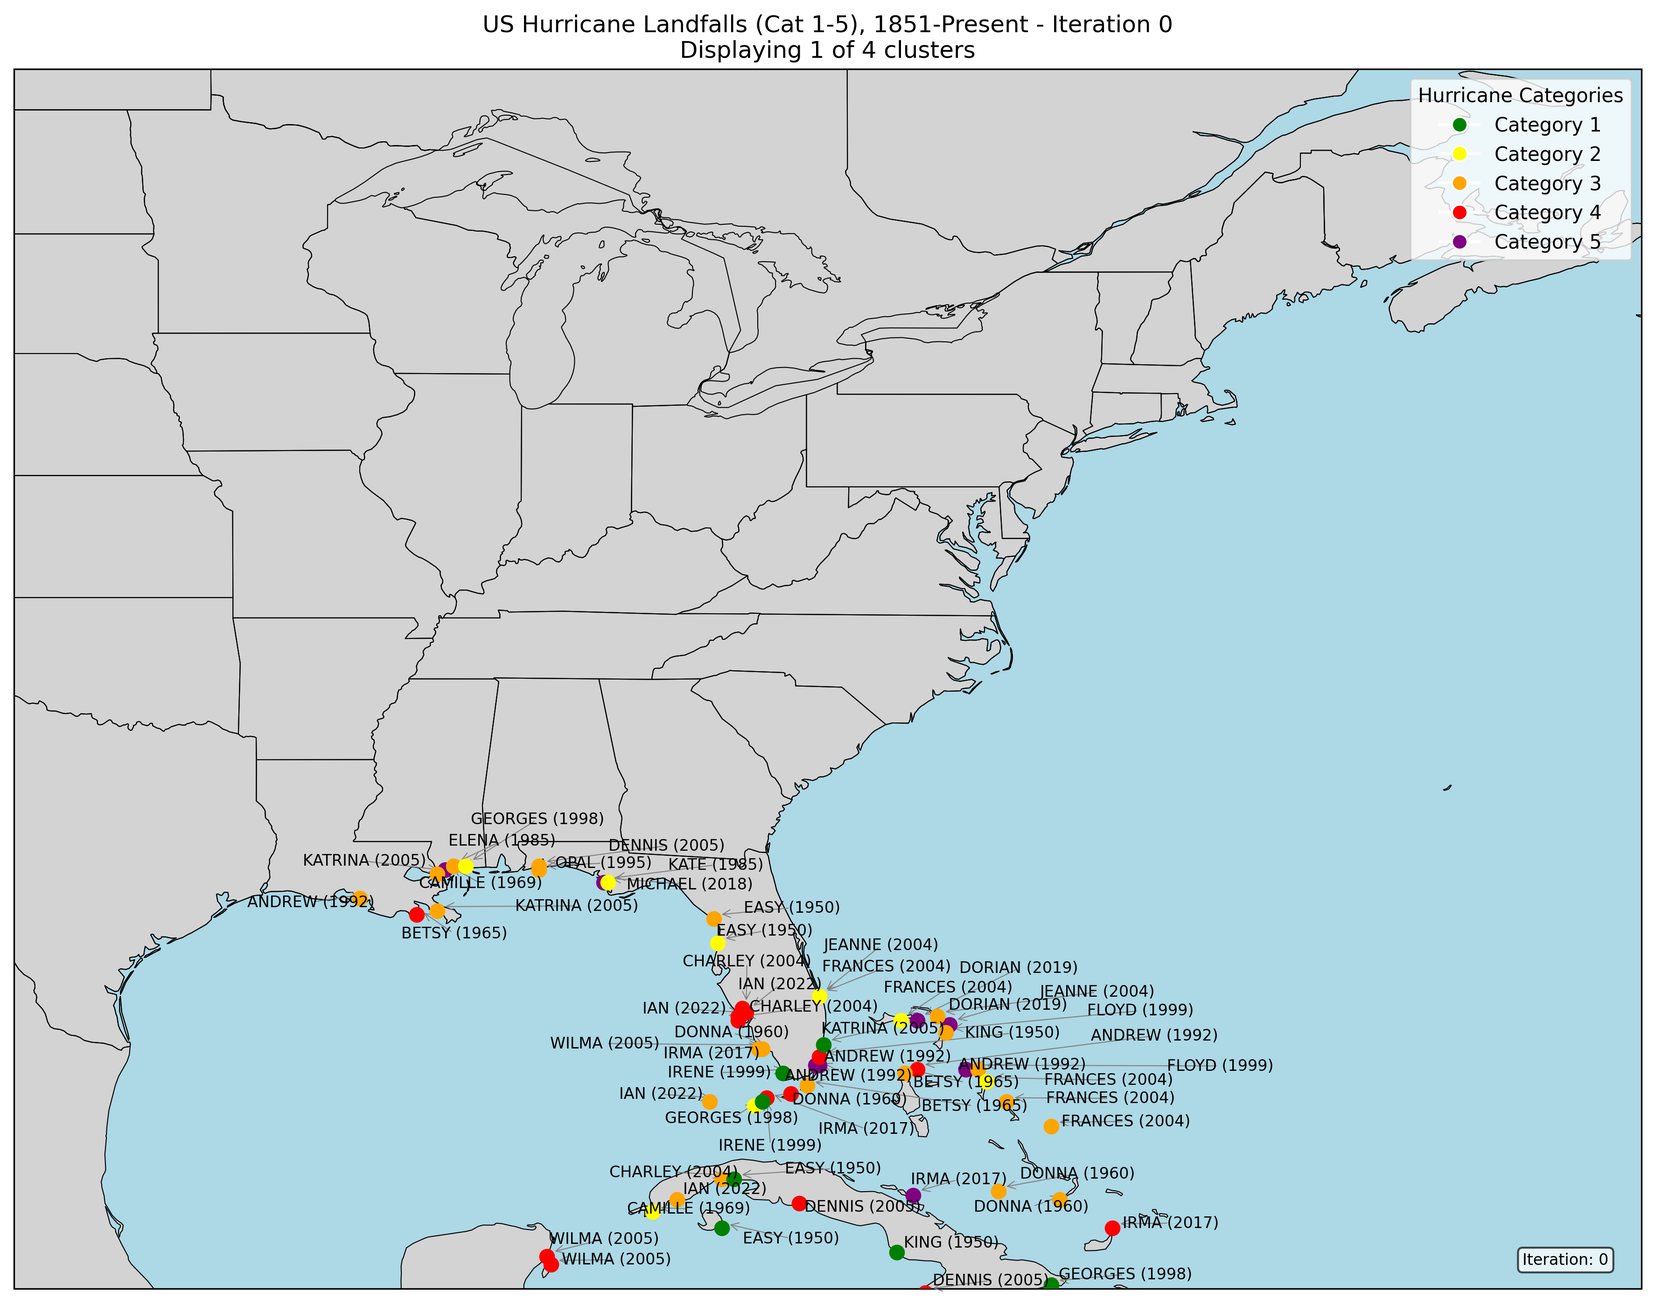
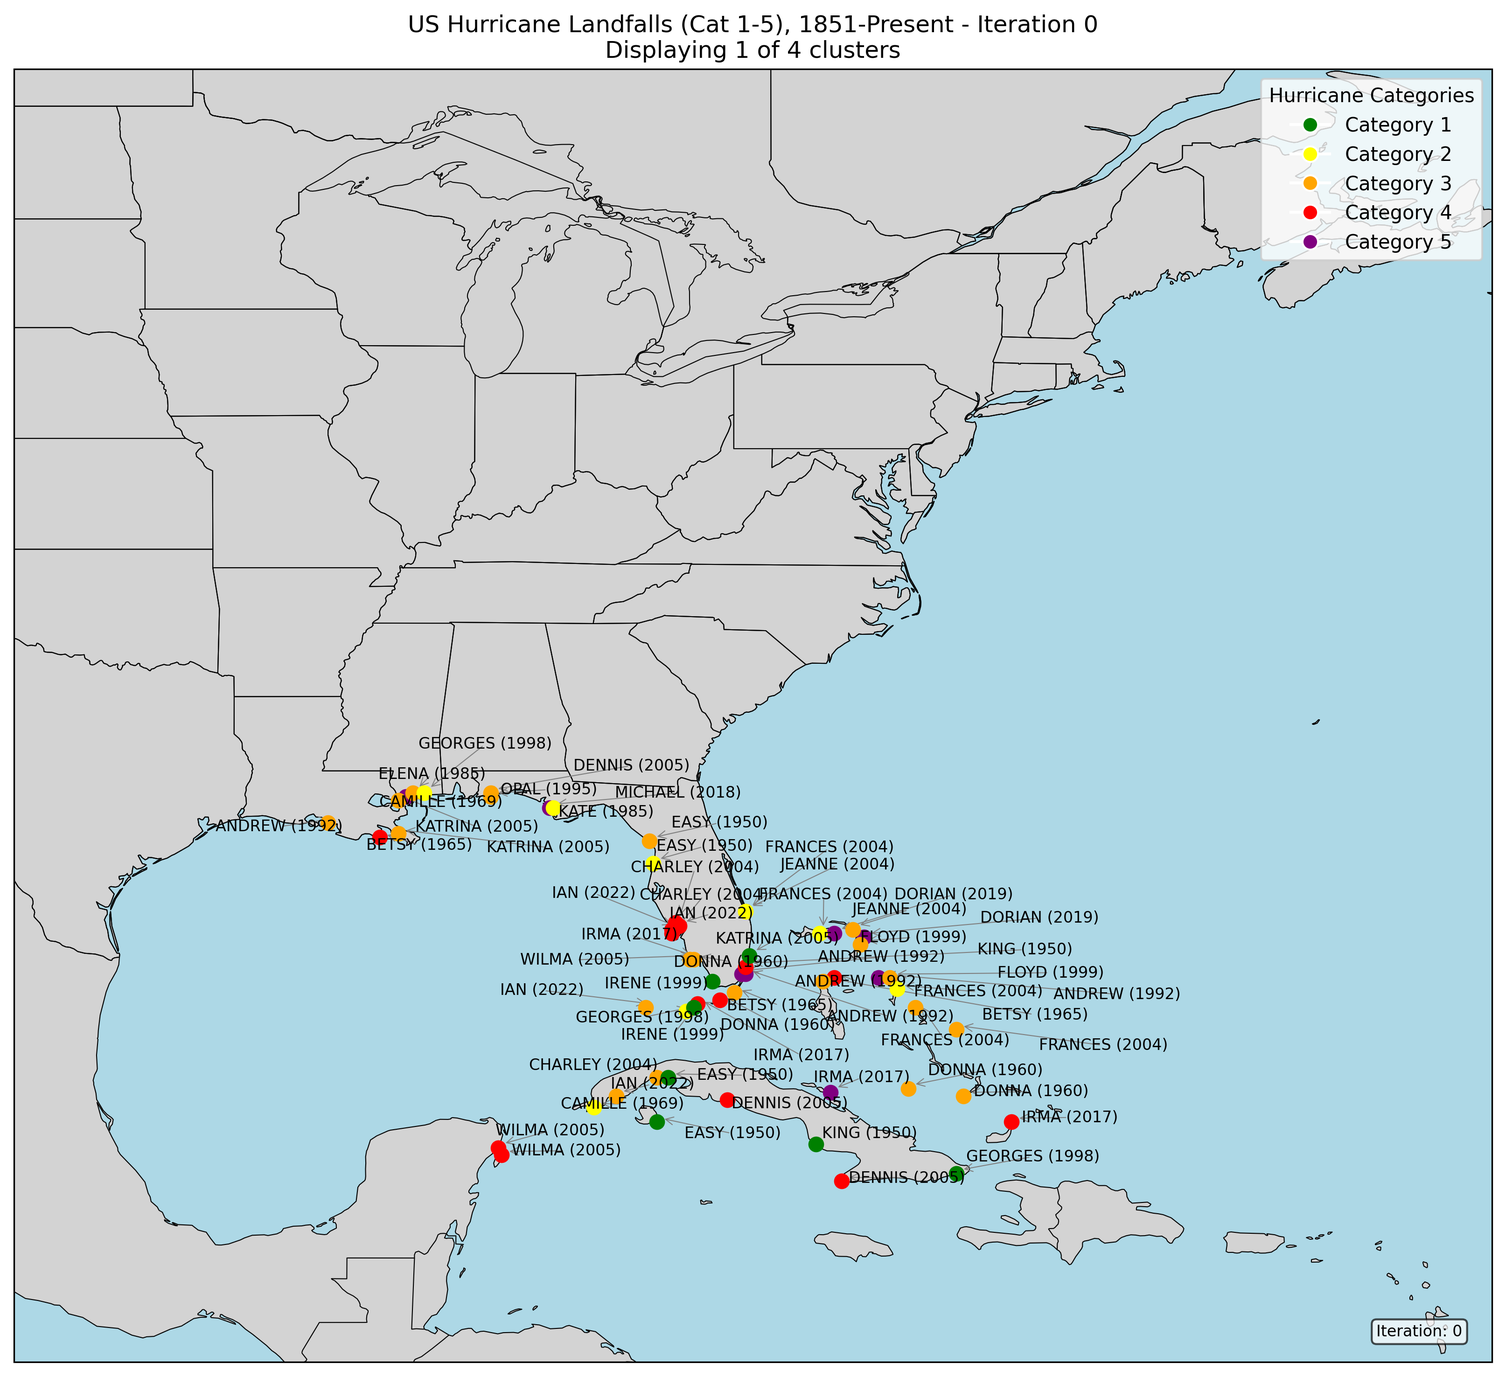
Break down Phase 3 into sub sections to try to make progress

diff --git a/src/plotting_script_phase3_adjustText_focused.py b/src/plotting_script_phase3_adjustText_focused.py
@@ -1,0 +1,229 @@
+#!/usr/bin/env python3
+"""
+Florida Hurricane Landfall Map Generator - adjustText Focused Approach
+
+This script creates a map of Florida hurricane landfalls, adding one cluster at a time
+and using adjustText as the primary layout engine for label placement optimization.
+"""
+
+import pandas as pd
+import matplotlib.pyplot as plt
+import cartopy.crs as ccrs
+import cartopy.feature as cfeature
+import numpy as np
+from pathlib import Path
+from sklearn.cluster import DBSCAN
+from adjustText import adjust_text
+import sys
+
+def create_florida_map(data_path: str, output_path: str, iteration: int) -> None:
+    """
+    Create a map of Florida hurricane landfalls, adding one cluster per iteration.
+    
+    Args:
+        data_path: Path to the CSV file containing landfall data
+        output_path: Path where to save the output PNG file
+        iteration: Current iteration number (determines how many clusters to show)
+    """
+    # Read the full data
+    df = pd.read_csv(data_path)
+    
+    # Sort by category (higher categories first) and proximity to Florida
+    df['miami_distance'] = ((df['longitude'] - (-80.2)) ** 2 + 
+                          (df['latitude'] - 25.8) ** 2) ** 0.5
+    df = df.sort_values(by=['category', 'miami_distance'], ascending=[False, True])
+    
+    # Define significant hurricanes to include (25 major hurricanes)
+    significant_hurricanes = [
+        "ANDREW (1992)",
+        "MICHAEL (2018)",
+        "KATRINA (2005)",
+        "WILMA (2005)",
+        "IRMA (2017)",
+        "IAN (2022)",
+        "CHARLEY (2004)",
+        "DONNA (1960)",
+        "ELOISE (1975)",
+        "OPAL (1995)",
+        "DENNIS (2005)",
+        "JEANNE (2004)",
+        "FRANCES (2004)",
+        "DORIAN (2019)",
+        "EASY (1950)",
+        "BETSY (1965)",
+        "IRENE (1999)",
+        "KING (1950)",
+        "GEORGES (1998)",
+        "ELENA (1985)",
+        "KATE (1985)",
+        "FLOYD (1999)",
+        "DAVID (1979)",
+        "HUGO (1989)",
+        "CAMILLE (1969)"
+    ]
+    
+    # Filter to include these hurricanes
+    plot_df = df[df.apply(lambda row: f"{row['name']} ({row['year']})" in significant_hurricanes, axis=1)]
+    
+    # Extract coordinates for clustering
+    coordinates = plot_df[['longitude', 'latitude']].values
+    
+    # Perform clustering using DBSCAN
+    # epsilon: maximum distance between points to be considered in the same cluster
+    # min_samples: minimum number of points to form a cluster
+    clustering = DBSCAN(eps=3.0, min_samples=1).fit(coordinates)
+    
+    # Add cluster labels to the dataframe
+    plot_df['cluster'] = clustering.labels_
+    
+    # Count number of clusters
+    num_clusters = len(set(clustering.labels_))
+    print(f"Total clusters: {num_clusters}")
+    
+    # Sort clusters by significance (average category) to process more significant clusters first
+    cluster_info = []
+    for cluster_id in range(num_clusters):
+        cluster_df = plot_df[plot_df['cluster'] == cluster_id]
+        avg_category = cluster_df['category'].mean()
+        min_distance = cluster_df['miami_distance'].min()
+        cluster_info.append((cluster_id, avg_category, min_distance, len(cluster_df)))
+    
+    # Sort by average category (descending), then by distance to Miami (ascending)
+    cluster_info.sort(key=lambda x: (-x[1], x[2]))
+    
+    # Create figure and axes
+    plt.figure(figsize=(15, 12))
+    ax = plt.axes(projection=ccrs.PlateCarree())
+    
+    # Set map extent to match baseline (showing full East Coast context)
+    # Modify to extend further south to ensure Florida and Gulf are fully visible
+    ax.set_extent([-100, -60, 15, 50], crs=ccrs.PlateCarree())
+    
+    # Add map features
+    ax.add_feature(cfeature.COASTLINE, linewidth=0.5)
+    ax.add_feature(cfeature.STATES, linewidth=0.5)
+    ax.add_feature(cfeature.BORDERS, linewidth=0.5)
+    ax.add_feature(cfeature.LAND, facecolor='lightgray')
+    ax.add_feature(cfeature.OCEAN, facecolor='lightblue')
+    
+    # Define category colors
+    category_colors = {
+        1: 'green',
+        2: 'yellow',
+        3: 'orange',
+        4: 'red',
+        5: 'purple'
+    }
+    
+    # Determine how many clusters to display based on iteration
+    # For iteration 0, display 1 cluster; for iteration 1, display 2 clusters, etc.
+    clusters_to_display = min(iteration + 1, num_clusters)
+    
+    # Plot landfall points and labels for the selected clusters
+    all_texts = []
+    for i in range(clusters_to_display):
+        cluster_id, _, _, _ = cluster_info[i]
+        cluster_df = plot_df[plot_df['cluster'] == cluster_id]
+        
+        # Plot each point in the cluster
+        for _, row in cluster_df.iterrows():
+            # Get coordinates and label
+            point_x, point_y = row['longitude'], row['latitude']
+            label = f"{row['name']} ({row['year']})"
+            
+            # Plot the hurricane point
+            ax.scatter(
+                point_x, 
+                point_y,
+                c=category_colors[row['category']],
+                s=50,
+                transform=ccrs.PlateCarree(),
+                zorder=5
+            )
+            
+            # Add text label with a small offset from the point
+            small_offset_x, small_offset_y = 0.1, 0.1
+            text = ax.text(
+                point_x + small_offset_x,
+                point_y + small_offset_y,
+                label,
+                fontsize=8,
+                transform=ccrs.PlateCarree(),
+                zorder=10
+            )
+            all_texts.append(text)
+    
+    # Add title
+    plt.title(
+        f"US Hurricane Landfalls (Cat 1-5), 1851-Present - Iteration {iteration}\n"
+        f"Displaying {clusters_to_display} of {num_clusters} clusters",
+        fontsize=12
+    )
+    
+    # Add legend for hurricane categories
+    legend_elements = [
+        plt.Line2D([0], [0], marker='o', color='w', 
+                  markerfacecolor=color, label=f'Category {cat}',
+                  markersize=8)
+        for cat, color in category_colors.items()
+    ]
+    ax.legend(
+        handles=legend_elements,
+        loc='upper right',
+        title='Hurricane Categories'
+    )
+    
+    # Add iteration number to bottom right corner
+    ax.text(
+        0.98, 0.02,
+        f"Iteration: {iteration}",
+        transform=ax.transAxes,
+        fontsize=8,
+        ha='right',
+        bbox=dict(facecolor='white', alpha=0.7, boxstyle="round,pad=0.3")
+    )
+    
+    # Use adjustText to adjust the text positions and avoid overlaps
+    # Configure with parameters that give adjustText more freedom to place labels
+    adjust_text(
+        all_texts,
+        arrowprops=dict(arrowstyle='->', color='gray', lw=0.5),
+        expand_points=(1.2, 1.2),
+        expand_text=(1.2, 1.2),
+        force_points=(0.5, 0.5),
+        force_text=(0.5, 0.5), 
+        autoalign=True,  # Allow adjustText to align labels
+    )
+    
+    # Save the plot
+    plt.savefig(output_path, bbox_inches='tight', dpi=300)
+    print(f"Saved hurricane map to {output_path}")
+    plt.close()
+
+def main():
+    """Main function to generate the map."""
+    # Get iteration from command line args
+    iteration = 0
+    if len(sys.argv) > 1:
+        try:
+            iteration = int(sys.argv[1])
+        except ValueError:
+            print(f"Error: Invalid iteration number '{sys.argv[1]}'")
+            return
+
+    # Define paths
+    data_path = Path('data') / 'us_hurricane_landfalls_cat1_5.csv'
+    output_path = Path('output') / 'phase3' / 'images' / f'florida_iter_{iteration}.png'
+    
+    # Check if data exists
+    if not data_path.exists():
+        print(f"Error: Data file not found at {data_path}")
+        return
+    
+    # Create the map
+    print(f"Generating hurricane map for iteration {iteration}...")
+    create_florida_map(str(data_path), str(output_path), iteration)
+    print(f"Saved hurricane map to {output_path}")
+
+if __name__ == "__main__":
+    main() 

diff --git a/Phase 3.sub.md b/Phase 3.sub.md
@@ -1,0 +1,165 @@
+## **Phase 3.1: Refactor Plotting Script for `adjustText` Focus**
+
+*   **Goal:** Create a new baseline plotting script that uses `adjustText` as the primary layout engine, removing complex heuristics and simplifying the agent's future task.
+*   **Checkpoints:**
+    1.  Script successfully removes heuristic positioning and callouts.
+    2.  Script uses `adjustText` effectively for initial layout.
+    3.  Script runs manually for a few iterations, producing visually different (even if imperfect) layouts relying on `adjustText`.
+
+*   **To-Do List:**
+    1.  **Copy Script:** Duplicate `src/plotting_script_phase3_incremental.py` to `src/plotting_script_phase3_adjustText_focused.py`. This will be the new script the agent modifies.
+    2.  **Remove Heuristics:**
+        *   Delete the entire `get_cluster_offset` function definition.
+        *   Remove the lines within the cluster processing loop that call `get_cluster_offset`.
+        *   Remove the calculation and usage of `label_x`, `label_y` based on offsets.
+    3.  **Remove Callout Boxes:**
+        *   Delete the code block that creates `plt.Rectangle` (the white background boxes).
+    4.  **Simplify Initial Text Placement:**
+        *   Inside the loop `for j, (_, row) in enumerate(cluster_df.iterrows()):` (or the equivalent loop iterating through points in displayed clusters):
+            *   Modify the `ax.text(...)` call:
+                *   Set the initial position to `(row['longitude'], row['latitude'])` or slightly offset like `(row['longitude'] + 0.01, row['latitude'] + 0.01)`.
+                *   Remove any `ha` (horizontal alignment) or `va` (vertical alignment) arguments that were dependent on the old offsets; let `adjustText` handle alignment or use Matplotlib defaults initially.
+                *   Remove the `bbox` argument for single points for now (can be added back later if desired).
+            *   Ensure this simplified `ax.text` object is still appended to the `all_texts` list.
+    5.  **Consolidate Text Creation:** Remove the `if num_points > 1:` / `else:` logic that handled text differently for single vs. multi-point clusters. Apply the simplified `ax.text` logic (from step 4) to *all* points being plotted in the current iteration.
+    6.  **Remove Old Leader Lines:** Delete the code creating `ConnectionPatch` instances *before* the `adjust_text` call.
+    7.  **Configure `adjustText`:**
+        *   Locate the `adjust_text(...)` call.
+        *   Set `autoalign=True` (experimentally, to let it control alignment).
+        *   Ensure `arrowprops=dict(arrowstyle='-', color='grey', lw=0.5)` (or similar) is present, so it draws leader lines from the *final adjusted position* back towards the original point coordinates (or the slightly offset initial text position).
+        *   Review/adjust `force_points`, `force_text`, `expand_points`, `expand_text`. Reasonable starting values might be `force_text=(0.5, 0.5)`, `force_points=(0.1, 0.1)`.
+        *   Remove the `only_move` argument initially, allowing `adjustText` more freedom.
+    8.  **Manual Test & Refine:**
+        *   Run the new script manually from the command line for the first few iterations:
+            ```bash
+            python src/plotting_script_phase3_adjustText_focused.py 0
+            python src/plotting_script_phase3_adjustText_focused.py 1
+            python src/plotting_script_phase3_adjustText_focused.py 2
+            ```
+        *   Examine the output images (`output/phase3/images/florida_iter_*.png`). Does `adjustText` seem to be working? Are labels moving? Are leader lines present? Tweak `adjustText` parameters (step 7) if needed to get a reasonable (though likely imperfect) starting layout.
+    9.  **Save Final Version:** Once satisfied with the manual test, save this version as the definitive starting point for the agent loop (e.g., overwrite the copy in `src/` or note this version).
+
+---
+
+## **Phase 3.2: Adapt Agent Loop Script for Diff Handling**
+
+*   **Goal:** Modify the orchestrator script to request, receive, parse, and apply code diffs, instead of replacing the entire file.
+*   **Checkpoints:**
+    1.  Script correctly requests a diff from the LLM (verified in prompt definition - Phase 3.3).
+    2.  Script attempts to extract diff content from the LLM response.
+    3.  Script includes logic to *apply* the diff to the current code state.
+    4.  Basic error handling for diff application is present.
+
+*   **To-Do List:**
+    1.  **Copy Script:** Duplicate `src/agent_loop_phase3_incremental.py` to `src/agent_loop_phase3_diffs.py`.
+    2.  **Import `difflib`:** Add `import difflib` at the top.
+    3.  **Modify LLM Output Extraction:**
+        *   In the `extract_code_from_response` function (or directly in the loop), change the logic to look for diff markers (e.g., ```diff ... ```) instead of Python markers.
+        *   Return the *diff string*, not the full code. Rename the function to `extract_diff_from_response` if desired. Handle cases where the LLM might not provide the correct format (return None or empty string).
+    4.  **Implement Diff Application Logic:**
+        *   Inside the main loop, *after* receiving the response and extracting the `diff_text`:
+            *   Store the `current_code` string as `previous_code` (for the *next* iteration's history).
+            *   **Attempt to Apply Diff:**
+                *   Use `difflib` or simple string manipulation. A potentially robust method (though complex) is to parse the unified diff format.
+                *   **Simpler (Recommended) Approach:** Use `patch` utility if available, or Python libraries like `patch` (`pip install patch`) or `python-patch` (`pip install python-patch`). Example using `patch`:
+                    ```python
+                    import patch
+                    # ... inside loop ...
+                    diff_text = extract_diff_from_response(response_text)
+                    if diff_text:
+                        try:
+                            # Ensure diff_text is bytes if the library requires it
+                            patch_set = patch.fromstring(diff_text.encode('utf-8'))
+                            # Apply patch to previous_code (which is the current code before modification)
+                            patched_bytes = patch_set.apply(previous_code.encode('utf-8'))
+                            if patched_bytes:
+                                current_code = patched_bytes.decode('utf-8') # This is the new code
+                                log.write("Successfully applied diff.\n")
+                            else:
+                                log.write("Failed to apply diff (patch library returned False).\n")
+                                # Keep previous code: current_code remains previous_code
+                        except Exception as e:
+                            log.write(f"Error applying diff: {e}\n")
+                            # Keep previous code: current_code remains previous_code
+                    else:
+                        log.write("No valid diff extracted from response. Using previous code.\n")
+                        # Keep previous code: current_code remains previous_code
+                    ```
+            *   Ensure `current_code` variable holds the *result* of the patching (or the old code if patching failed).
+    5.  **Update State/Logging:**
+        *   Modify the logging to save the received `diff_text` and whether the patch application succeeded or failed.
+        *   Ensure `previous_llm_modification` now stores the `diff_text` for the next iteration's context.
+    6.  **Code Saving:** Modify the logic that saves the code for the next iteration (`CODE_DIR / f"plotting_script_phase3_iter_{i+1}.py"`) to write the *newly patched* `current_code`.
+
+---
+
+## **Phase 3.3: Revise Prompt & Small Test Run**
+
+*   **Goal:** Define the new prompt for the LLM focusing on diffs and overrides, and run a brief test to ensure the diff request/apply mechanism works.
+*   **Checkpoints:**
+    1.  New prompt correctly instructs the LLM based on the refactored plotting script and asks for a diff.
+    2.  Short loop run executes, attempts diff application, and logs results.
+    3.  LLM attempts to provide diffs targeting label overrides.
+
+*   **To-Do List:**
+    1.  **Set Starting Script:** Ensure `agent_loop_phase3_diffs.py` initializes using the refactored plotting script from Phase 3.1 (e.g., `src/plotting_script_phase3_adjustText_focused.py`).
+    2.  **Implement New Prompt:**
+        *   In `agent_loop_phase3_diffs.py`, modify the `create_prompt` function (or inline prompt creation).
+        *   Use the following structure (adjust placeholders):
+            ```text
+            You are an AI agent improving a Python script (`current_code`) that generates a map of Florida hurricane landfalls using Matplotlib/Cartopy and the `adjustText` library. The script plots points incrementally; this is iteration N={N}. `adjustText` handles the main layout, but sometimes fails.
+
+            **Context:**
+            *   **Current Iteration Number:** N = {N}
+            *   **Current Plotting Script (`current_code`):**
+                ```python
+                # [Content of current_code string]
+                ```
+            *   **Image from Previous Script (`previous_image`):** [Image data for previous_image_path, if N>0]
+            *   **Diff applied in Previous Step (`previous_llm_modification`):**
+                ```diff
+                # [Content of previous_llm_modification string (the diff), if N>0]
+                ```
+            *   **Image Generated by Current Script (`current_image`):** [Image data for current_image_path]
+
+            **Task:**
+            1.  Analyze the `current_image`, focusing on the layout generated primarily by `adjustText`. Identify the ONE WORST remaining overlap or label placement issue, especially concerning the newly added cluster or interactions between clusters.
+            2.  Generate a code diff in standard `diff -u` format to modify the `current_code`.
+            3.  The **primary goal** of the diff should be to add a *new* specific `ax.text(x, y, "Label (YEAR)", ...)` call *after* the main `adjust_text(...)` call. This new call manually sets the precise coordinates (x, y) for the single problematic label you identified, effectively overriding the position `adjustText` chose for it. Choose coordinates that resolve the issue identified in step 1.
+            4.  Do NOT modify the main `adjust_text(...)` call or its parameters in this diff unless absolutely necessary and you explain why in a comment within the diff context. Do not modify data loading or loop logic.
+            5.  Output **only the diff block**, correctly formatted and enclosed in markdown triple backticks (```diff ... ```).
+
+            **Self-Correction Hint:** Review the `previous_image` and `previous_diff`. If the last change didn't improve the specific issue it targeted, try fixing a *different* problematic label in this iteration.
+            ```
+    3.  **Short Test Run:**
+        *   Execute `agent_loop_phase3_diffs.py` with a low iteration count (`--iterations 3` or `--iterations 5`).
+        *   Monitor the logs closely: Is the prompt correct? Is the LLM returning something that looks like a diff? Is the diff application logic running (and succeeding/failing as expected)? Are the output images changing?
+        *   Manually inspect the generated code versions (`output/phase3/code/plotting_script_phase3_iter_*.py`). Do they show evidence of new `ax.text` calls being added after `adjustText`?
+
+---
+
+## **Phase 3.4: Run Scaled Experiment (Phase 3 Retry)**
+
+*   **Goal:** Execute the refined agentic loop on the full Florida subset for multiple iterations to gather data for the final evaluation.
+*   **Checkpoints:**
+    1.  Loop runs stably for the target number of iterations or until budget is hit.
+    2.  Logs capture sufficient detail for Phase 4 analysis.
+    3.  Sequence of output images is generated for visual assessment.
+
+*   **To-Do List:**
+    1.  **Prepare:** Ensure the `florida_landfalls.csv` data is ready. Confirm the starting script is the correct refactored one from Phase 3.1. Double-check budget tracking/limits in `agent_loop_phase3_diffs.py`.
+    2.  **Execute:** Run the main experiment:
+        ```bash
+        # Example: Start from iteration 0, run for 20 iterations
+        python src/agent_loop_phase3_diffs.py --iterations 20 --start 0
+        ```
+    3.  **Monitor:** Keep an eye on:
+        *   Console output for progress and errors.
+        *   Log file growth and content (especially diff application success/failure).
+        *   Output images being generated in `output/phase3/images/`.
+        *   Estimated cost accumulation (if implemented). Stop manually if budget is exceeded unexpectedly.
+    4.  **Completion:** Let the loop finish the specified iterations or hit the budget limit.
+
+---
+
+This detailed breakdown provides checkpoints and specific implementation steps to refactor Phase 3. Once Phase 3.4 is complete, you'll have the necessary artifacts (final image sequence, logs) to perform the evaluation in Phase 4.
